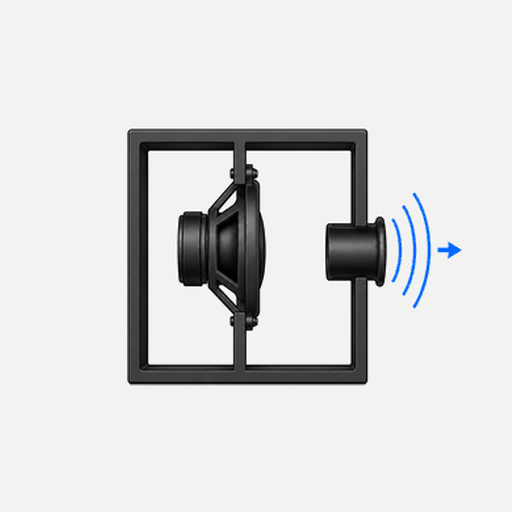
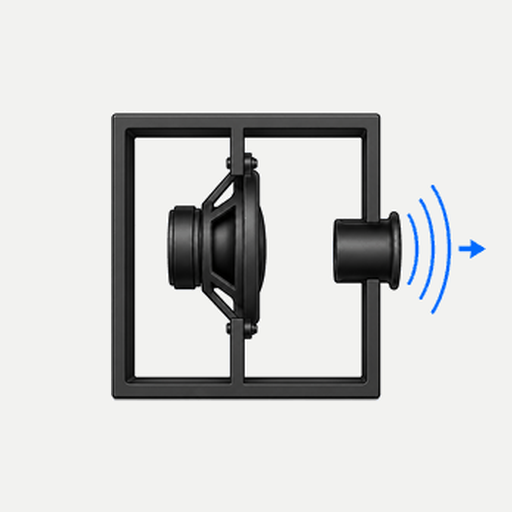
fix(ui): enlarge the equal-height load-card diagrams (v0.16.21)
Raise the uniform enclosure height to 56% of the card so the drawings are as large as the 0.16.19 set while staying visually equal; only the widest arrow span reaches the card edge. Full suite: 224 passed, 0 failed, 0 skipped.

Changed region(s): [[0.2188, 0.2188, 0.9688, 0.7812]]

diff --git a/ui_app.py b/ui_app.py
@@ -1270,7 +1270,7 @@ def _reflex_uses_passive_radiator(*, finder: bool = False) -> bool:
 
 
 @st.cache_data(show_spinner=False)
-def _load_type_card_styles(version: str = "square_v4") -> str:
+def _load_type_card_styles(version: str = "square_v5") -> str:
     """Return compact clickable-card CSS with the supplied diagrams embedded."""
     rules = [
         """

diff --git a/README.md b/README.md
@@ -4,12 +4,12 @@
   <img src="assets/load_forge_header_app.png" alt="Load Forge" width="900">
 </p>
 
-**Multi-Topology Acoustic Load Design & Optimizer** · Version **0.16.20**
+**Multi-Topology Acoustic Load Design & Optimizer** · Version **0.16.21**
 =============================================================================
-[![Version](https://img.shields.io/badge/version-0.16.20-blue.svg)](VERSION)
+[![Version](https://img.shields.io/badge/version-0.16.21-blue.svg)](VERSION)
 [![CI](https://github.com/marcoderossi/load_forge/actions/workflows/ci.yml/badge.svg)](https://github.com/marcoderossi/load_forge/actions)
 
-Current release: **0.16.20**
+Current release: **0.16.21**
 
 Load Forge is a Streamlit simulator for acoustic loudspeaker loads.  It supports
 **DCCAV** / double resonator in series, **fourth-, sixth- and eighth-order bandpass**,

diff --git a/docs/deploy-cloudrun.md b/docs/deploy-cloudrun.md
@@ -22,10 +22,10 @@ gcloud config set project PROJECT_ID
 gcloud services enable run.googleapis.com artifactregistry.googleapis.com
 
 gcloud builds submit \
-  --tag europe-west1-docker.pkg.dev/PROJECT_ID/load-forge/load-forge:0.16.20
+  --tag europe-west1-docker.pkg.dev/PROJECT_ID/load-forge/load-forge:0.16.21
 
 gcloud run deploy load-forge \
-  --image europe-west1-docker.pkg.dev/PROJECT_ID/load-forge/load-forge:0.16.20 \
+  --image europe-west1-docker.pkg.dev/PROJECT_ID/load-forge/load-forge:0.16.21 \
   --region europe-west1 \
   --platform managed \
   --allow-unauthenticated \

diff --git a/CHANGELOG.md b/CHANGELOG.md
@@ -1,5 +1,13 @@
 # Changelog
 
+## 0.16.21 (2026-09-10)
+
+- Rebalance the load-card diagrams: keep the uniform enclosure height from
+  0.16.20 but raise it to 56% of the card, so the drawings are as large as the
+  0.16.19 set while staying visually equal. Only the widest arrow span
+  (Bandpass 6th order) reaches the card edge.
+- Fresh active suite after the last edit: **224 passed, 0 failed, 0 skipped**.
+
 ## 0.16.20 (2026-09-10)
 
 - Give every load-card diagram the same visual size: each drawing is scaled so
